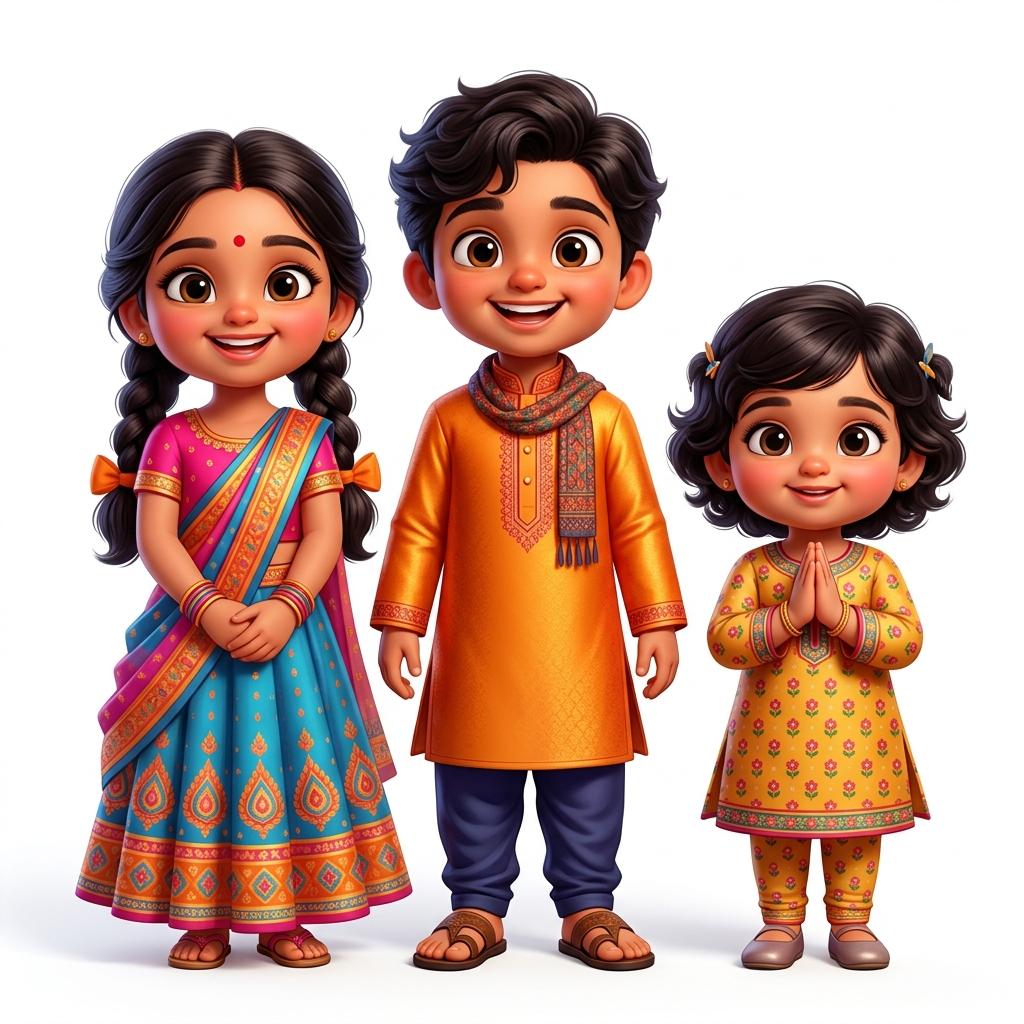
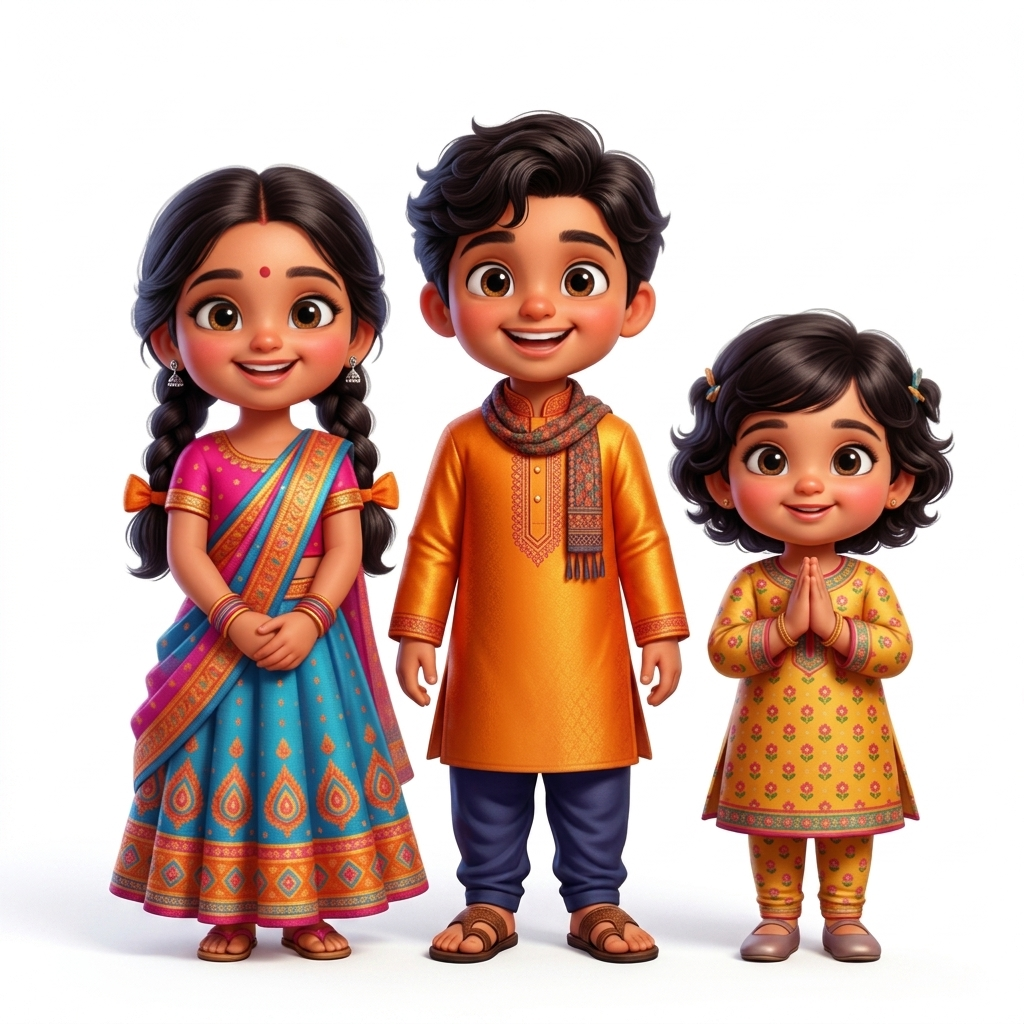
Update footer: 3D Pixar-style kids image, correct YouTube and Instagram links

diff --git a/index.html b/index.html
@@ -780,10 +780,10 @@ As soon as Kevalgyan was attained, the divine assembly (Samavasaran) was created
 
           <!-- Social icons -->
           <div class="site-footer__socials">
-            <a href="https://www.youtube.com/@AhimsaKids" target="_blank" rel="noopener noreferrer" class="site-footer__social-link" aria-label="YouTube">
+            <a href="https://www.youtube.com/@Ahimsa_Kids" target="_blank" rel="noopener noreferrer" class="site-footer__social-link" aria-label="YouTube">
               <svg viewBox="0 0 24 24" fill="currentColor" width="22" height="22"><path d="M23.498 6.186a3.016 3.016 0 0 0-2.122-2.136C19.505 3.545 12 3.545 12 3.545s-7.505 0-9.377.505A3.017 3.017 0 0 0 .502 6.186C0 8.07 0 12 0 12s0 3.93.502 5.814a3.016 3.016 0 0 0 2.122 2.136c1.871.505 9.376.505 9.376.505s7.505 0 9.377-.505a3.015 3.015 0 0 0 2.122-2.136C24 15.93 24 12 24 12s0-3.93-.502-5.814zM9.545 15.568V8.432L15.818 12l-6.273 3.568z"/></svg>
             </a>
-            <a href="https://www.instagram.com/ahimsakids" target="_blank" rel="noopener noreferrer" class="site-footer__social-link" aria-label="Instagram">
+            <a href="https://www.instagram.com/ahimsa_kids_/?hl=en" target="_blank" rel="noopener noreferrer" class="site-footer__social-link" aria-label="Instagram">
               <svg viewBox="0 0 24 24" fill="currentColor" width="22" height="22"><path d="M12 2.163c3.204 0 3.584.012 4.85.07 3.252.148 4.771 1.691 4.919 4.919.058 1.265.069 1.645.069 4.849 0 3.205-.012 3.584-.069 4.849-.149 3.225-1.664 4.771-4.919 4.919-1.266.058-1.644.07-4.85.07-3.204 0-3.584-.012-4.849-.07-3.26-.149-4.771-1.699-4.919-4.92-.058-1.265-.07-1.644-.07-4.849 0-3.204.013-3.583.07-4.849.149-3.227 1.664-4.771 4.919-4.919 1.266-.057 1.645-.069 4.849-.069zM12 0C8.741 0 8.333.014 7.053.072 2.695.272.273 2.69.073 7.052.014 8.333 0 8.741 0 12c0 3.259.014 3.668.072 4.948.2 4.358 2.618 6.78 6.98 6.98C8.333 23.986 8.741 24 12 24c3.259 0 3.668-.014 4.948-.072 4.354-.2 6.782-2.618 6.979-6.98.059-1.28.073-1.689.073-4.948 0-3.259-.014-3.667-.072-4.947-.196-4.354-2.617-6.78-6.979-6.98C15.668.014 15.259 0 12 0zm0 5.838a6.162 6.162 0 1 0 0 12.324 6.162 6.162 0 0 0 0-12.324zM12 16a4 4 0 1 1 0-8 4 4 0 0 1 0 8zm6.406-11.845a1.44 1.44 0 1 0 0 2.881 1.44 1.44 0 0 0 0-2.881z"/></svg>
             </a>
           </div>
